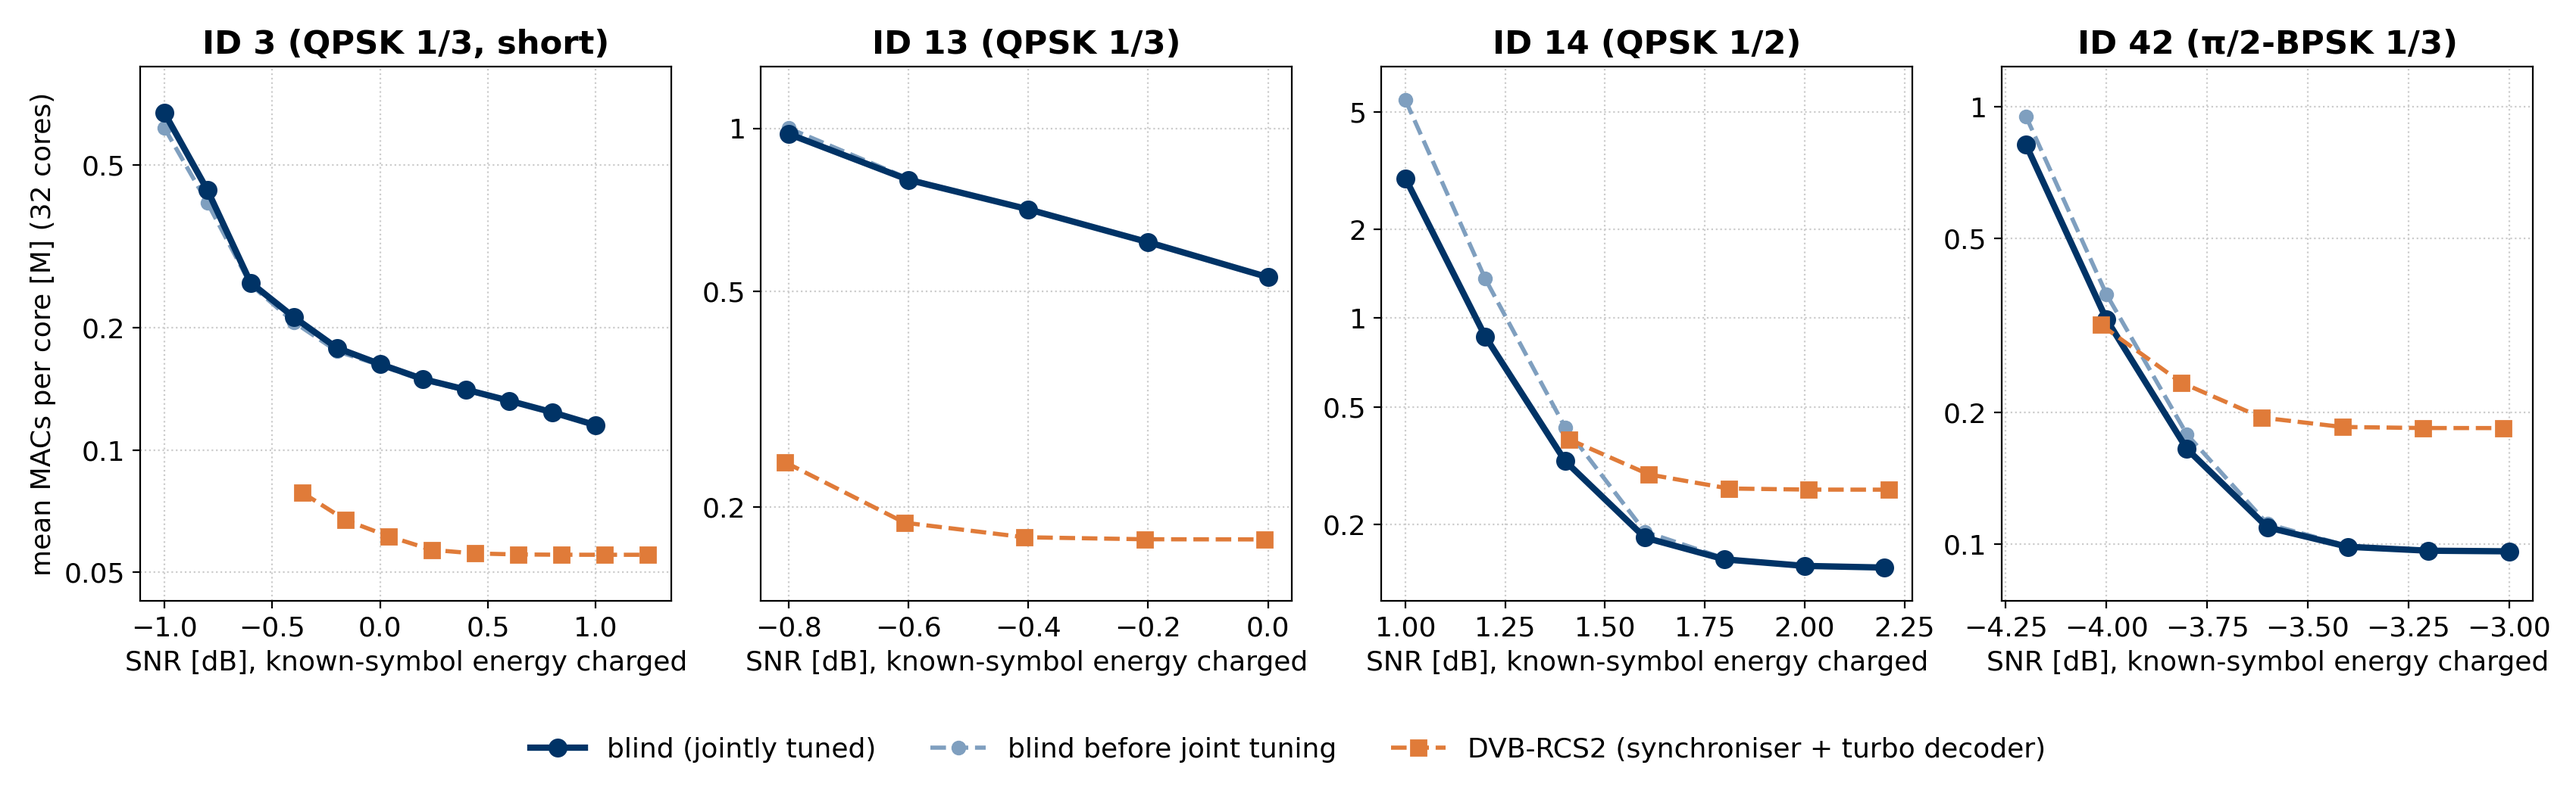
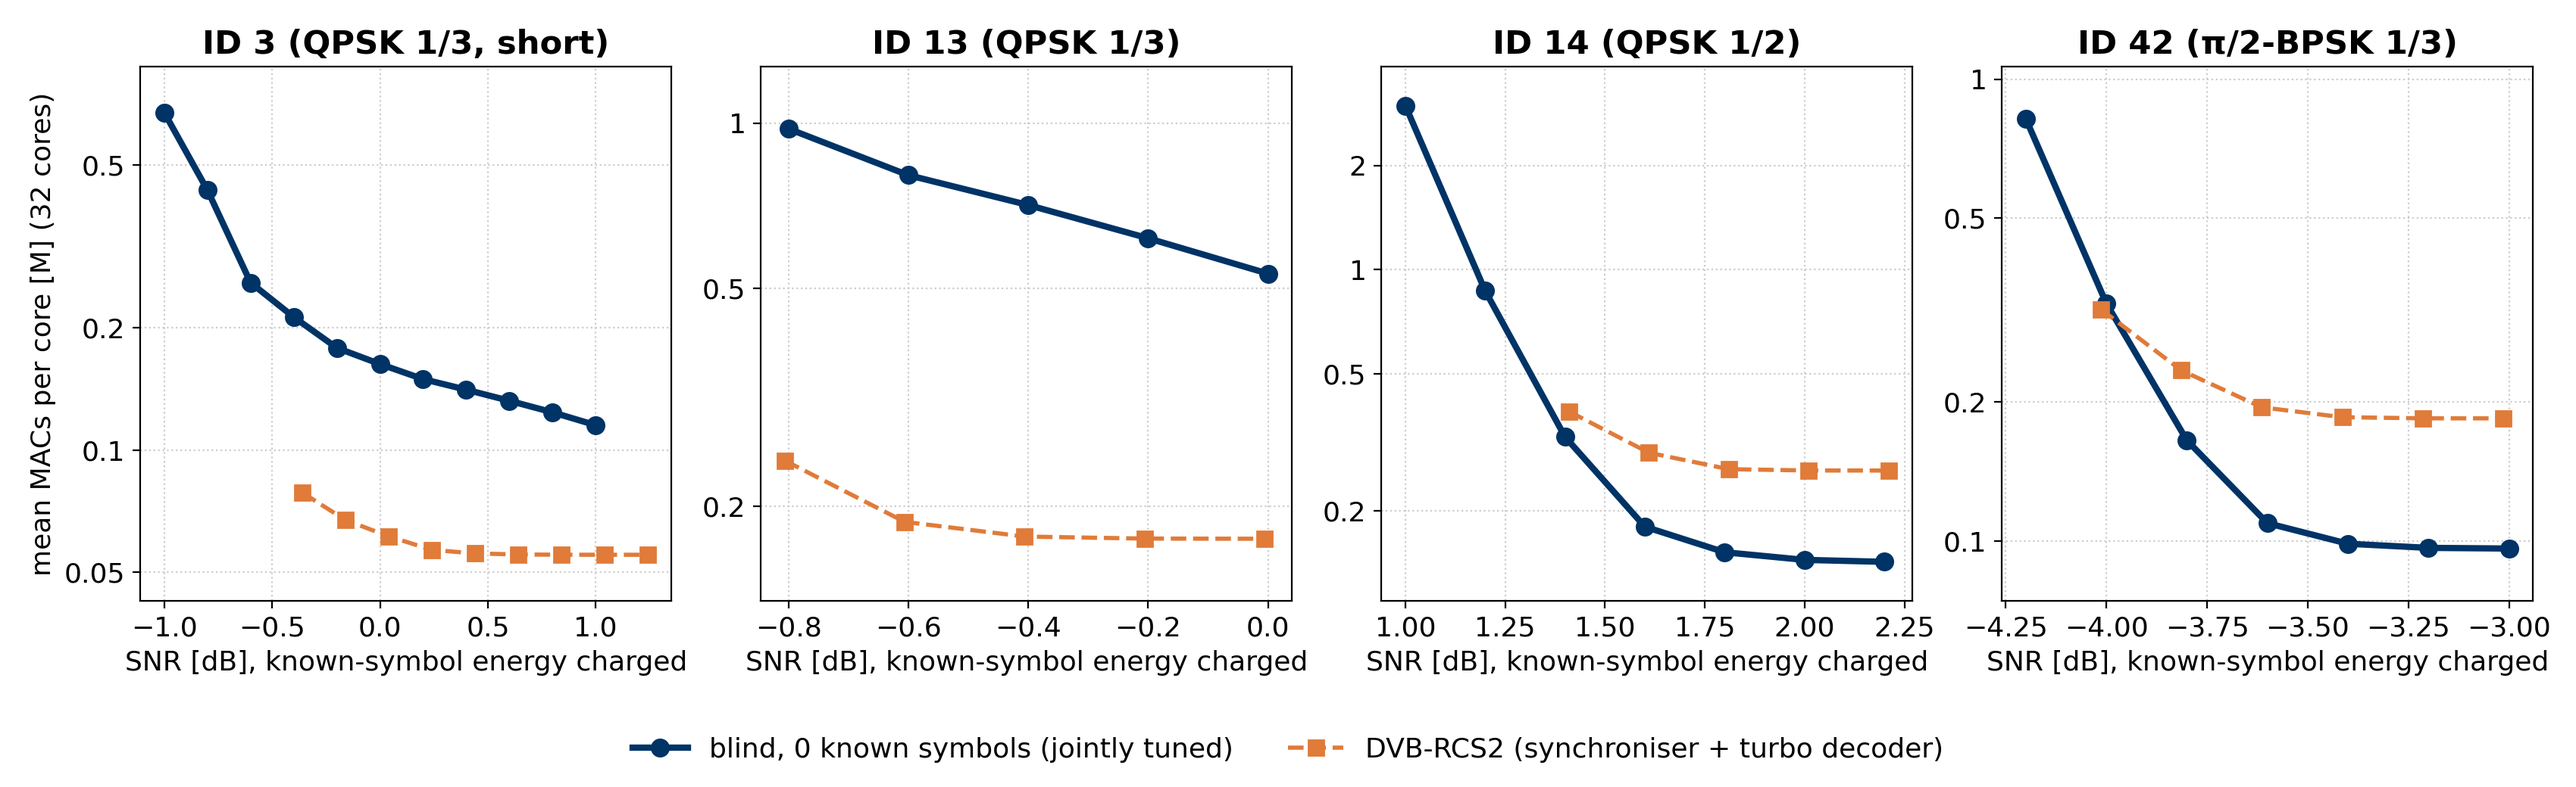
Slides: drop the blind-before-joint-tuning curve

diff --git a/BLIND_IMPLEMENTATION/presentation/fullsys/plot_fullsys.py b/BLIND_IMPLEMENTATION/presentation/fullsys/plot_fullsys.py
@@ -91,14 +91,12 @@ f.tight_layout(rect=(0, 0.1, 1, 1)); f.savefig(os.path.join(HERE, "fs_dvb_bler.p
 f, ax = plt.subplots(1, 4, figsize=(17, 5.2))
 for a, fmt in zip(ax, DVB):
     d, ce, cp, cm, te, tp, tm = dvb_series(fmt)
-    bf = d["before"]; bm_ = np.array(bf["mean"])
-    h0, = a.plot(bf["es"], bm_, "--o", color=LIGHT, lw=2, ms=6)
     hb, = a.plot(te, np.array(tm) / 1e6, "-o", color=NAVY, lw=3, ms=8)
     hc, = a.plot(ce, np.array(cm) / 1e6, "--s", color=ORANGE, lw=2, ms=7)
-    mticks(a, list(np.array(tm) / 1e6) + list(np.array(cm) / 1e6) + list(bm_))
+    mticks(a, list(np.array(tm) / 1e6) + list(np.array(cm) / 1e6))
     a.set_title(f"{d['name']} ({d['desc'].replace('pi/2', 'π/2')})", fontweight="bold")
     style(a, XL, "mean MACs per core [M] (32 cores)" if a is ax[0] else None)
-legend_below(f, [hb, h0, hc], ["blind (jointly tuned)", "blind before joint tuning", "DVB-RCS2 (synchroniser + turbo decoder)"], 3)
+legend_below(f, [hb, hc], ["blind, 0 known symbols (jointly tuned)", "DVB-RCS2 (synchroniser + turbo decoder)"], 2)
 f.tight_layout(rect=(0, 0.1, 1, 1)); f.savefig(os.path.join(HERE, "fs_dvb_macs.png"), dpi=200); plt.close(f)
 
 # 3) VDE-SAT: BLER and MACs vs Eb/N0
@@ -111,13 +109,12 @@ hb, = ax[0].semilogy(*nz(fe, fp), "-o", color=NAVY, lw=3, ms=8)
 hc, = ax[0].semilogy(*nz(ce, cp), "--P", color=BROWN, lw=2, ms=8)
 xb, xc = cross(fe, fp), cross(ce, cp)
 ax[0].set_title("BLER", fontweight="bold"); style(ax[0], XL, "BLER")
-h0, = ax[1].plot(be, np.array(bm) / 1e6, "--o", color=LIGHT, lw=2, ms=6)
 ax[1].plot(fe, np.array(fm) / 1e6, "-o", color=NAVY, lw=3, ms=8)
 ax[1].plot(ce, np.array(cm) / 1e6, "--P", color=BROWN, lw=2, ms=8)
-mticks(ax[1], list(np.array(bm) / 1e6) + list(np.array(fm) / 1e6) + list(np.array(cm) / 1e6))
+mticks(ax[1], list(np.array(fm) / 1e6) + list(np.array(cm) / 1e6))
 ax[1].set_title("mean MACs per core [M] (32 cores)", fontweight="bold"); style(ax[1], XL)
-legend_below(f, [hb, h0, hc], ["blind (jointly tuned)", "blind before joint tuning",
-                               f"VDE-SAT ({V['known']} known: syncwords + pilots)"], 3)
+legend_below(f, [hb, hc], ["blind, 0 known symbols (jointly tuned)",
+                           f"VDE-SAT ({V['known']} known: syncwords + pilots)"], 2)
 f.tight_layout(rect=(0, 0.1, 1, 1)); f.savefig(os.path.join(HERE, "fs_vde.png"), dpi=200); plt.close(f)
 
 # 4) VDE-SAT, final blind with a MAC cap
